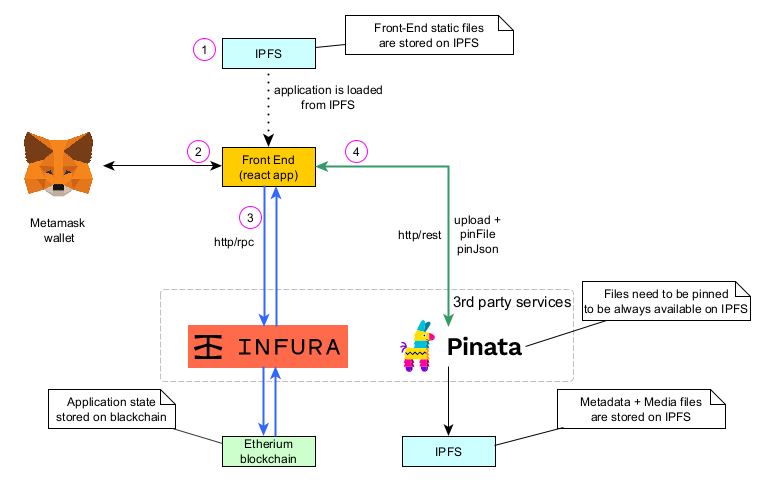
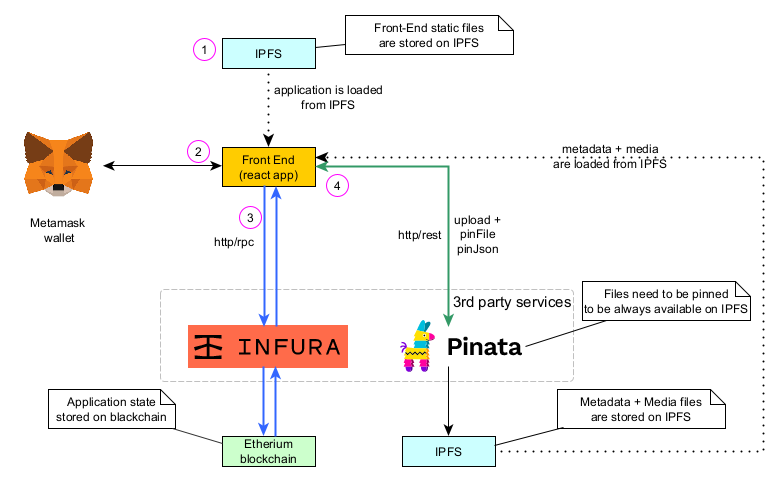
update architecture + switch to localnet

diff --git a/packages/hardhat/hardhat.config.js b/packages/hardhat/hardhat.config.js
@@ -27,7 +27,8 @@ const { isAddress, getAddress, formatUnits, parseUnits } = utils;
 //
 // Select the network you want to deploy to here:
 //
-const defaultNetwork = "ropsten";
+// const defaultNetwork = "ropsten";
+const defaultNetwork = "localhost";
 
 const mainnetGwei = 21;
 
